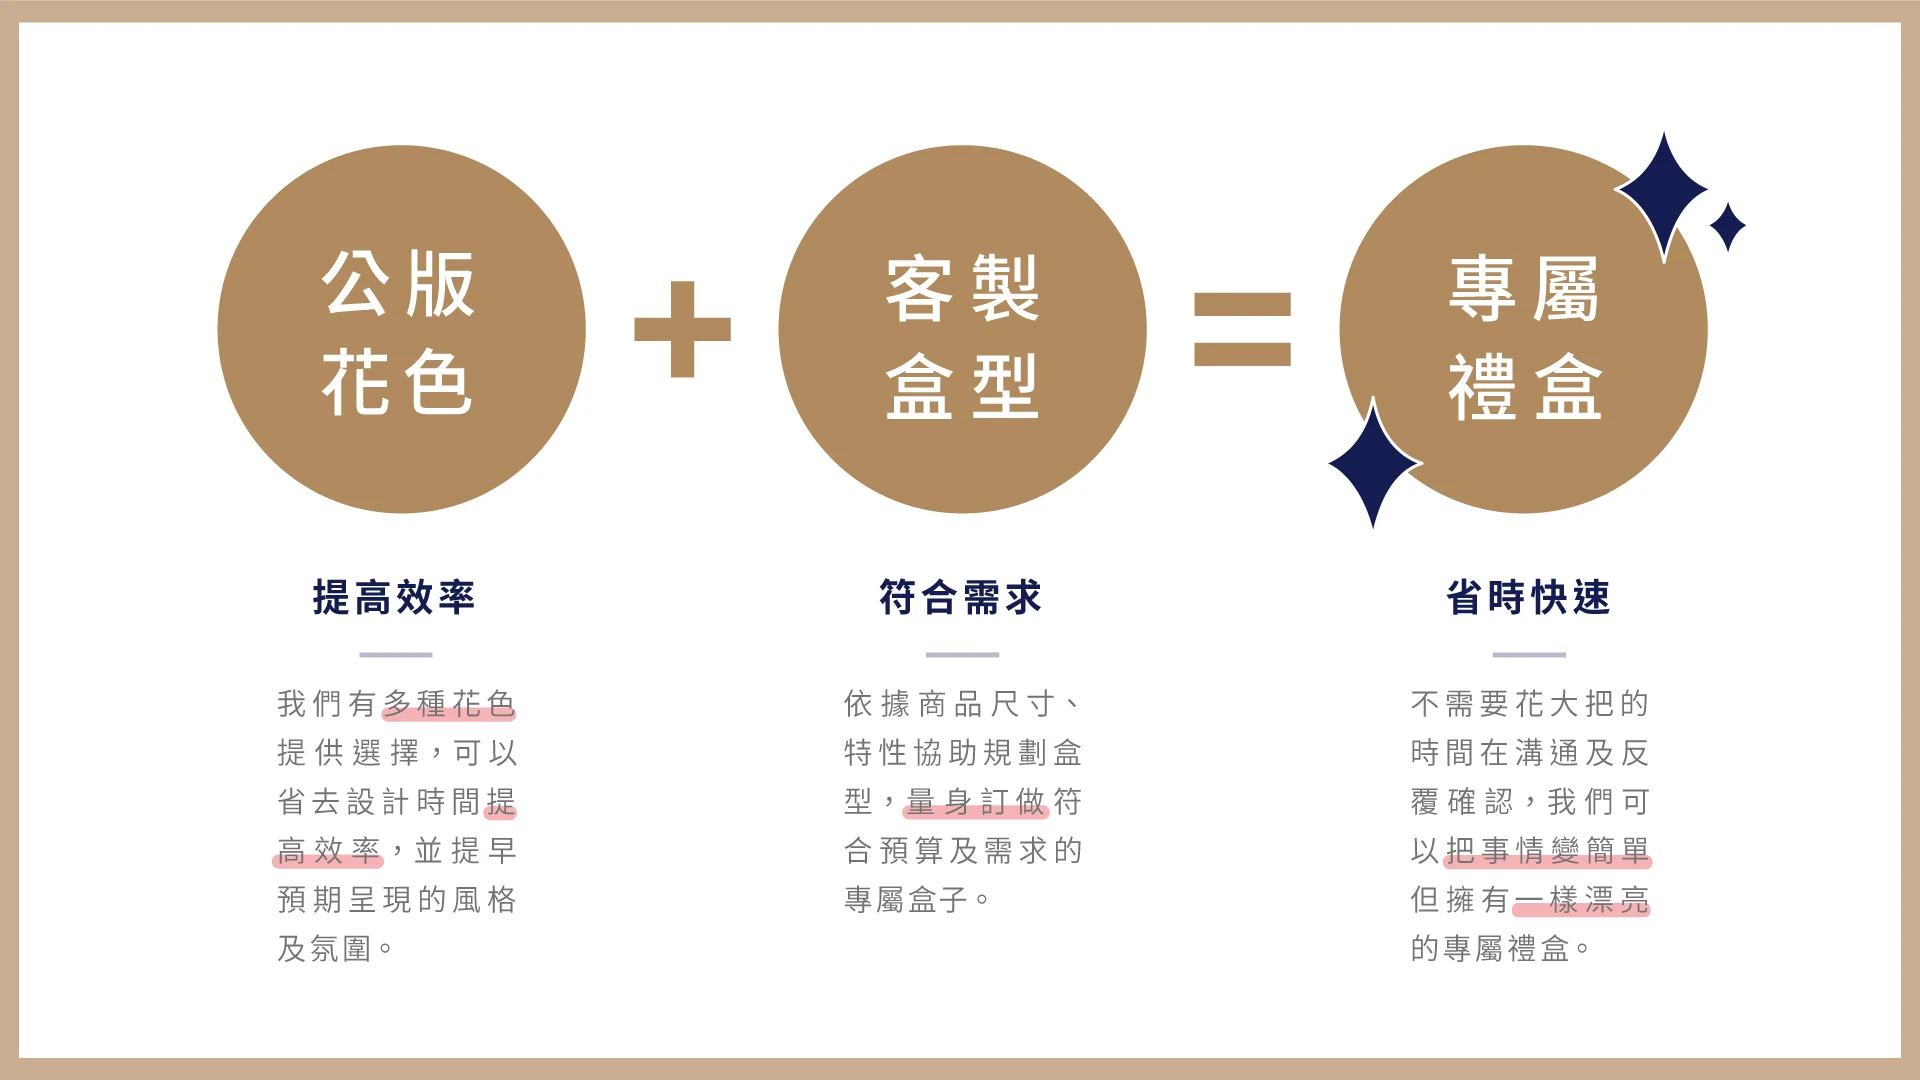
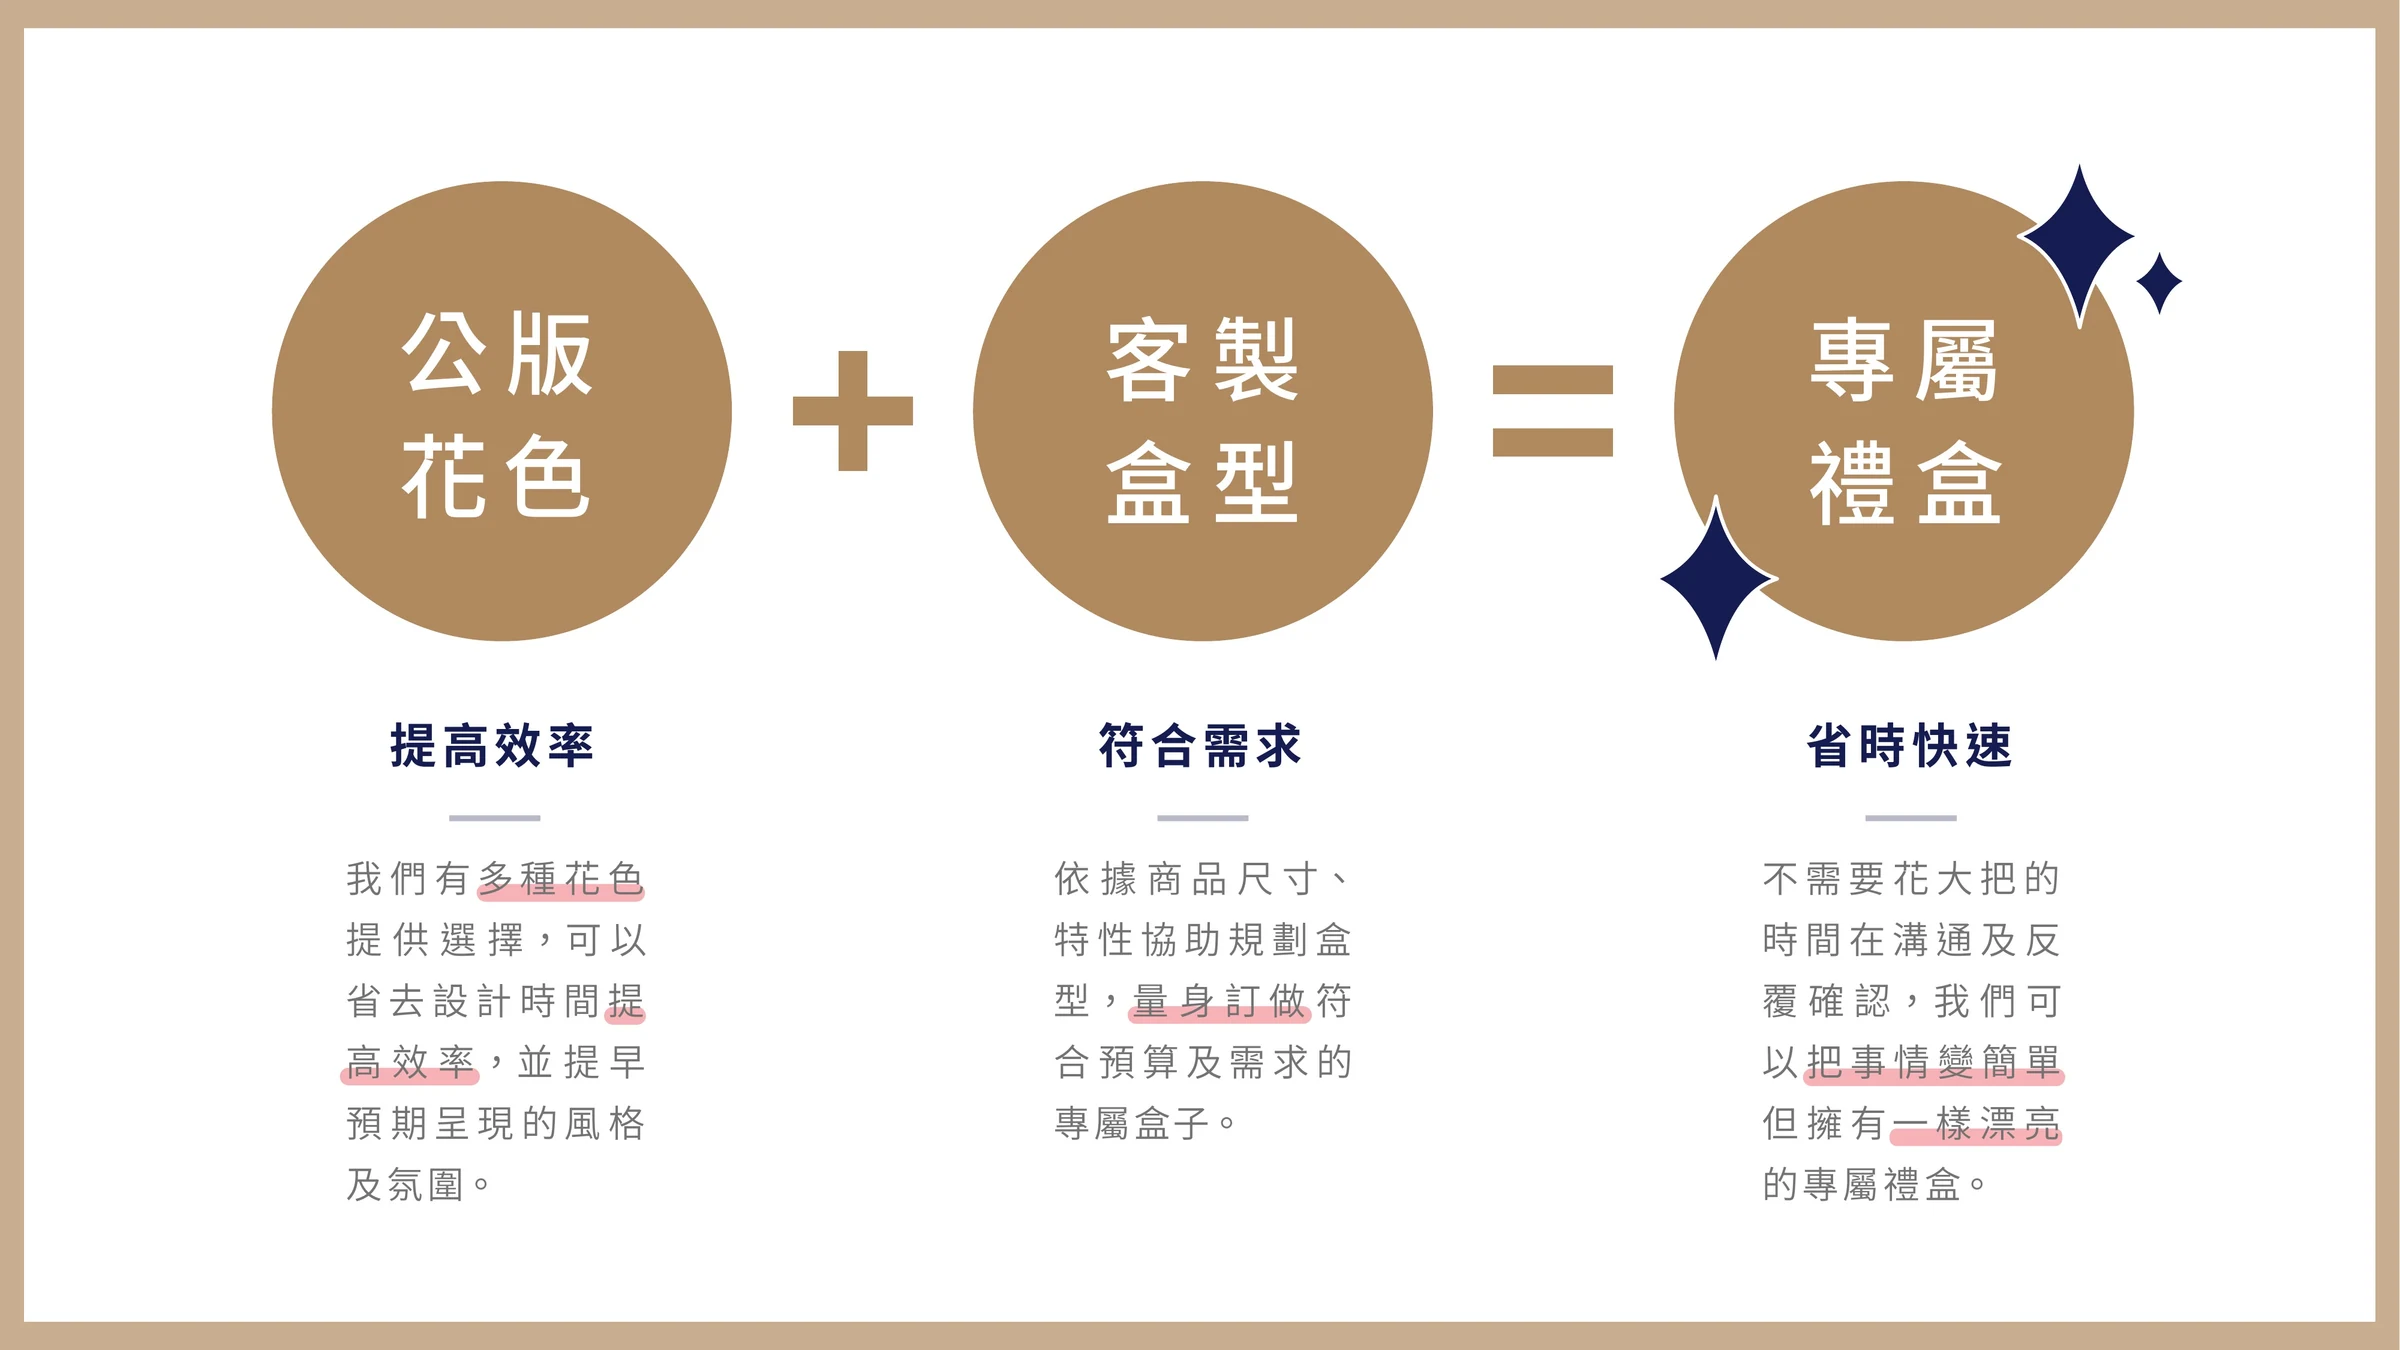
威利與查理改由 AI 檔產生：2400px 頁面圖＋透明可選取文字層＋展開本頁文字（拿掉空白頁與重複封面）
Claude-Session: https://claude.ai/code/session_01FHAxfGfD8vpumr7C1YBcXa

diff --git a/cases/willy.html b/cases/willy.html
@@ -10,6 +10,17 @@
 <link href="https://fonts.googleapis.com/css2?family=Noto+Sans+TC:wght@200;300;400;500;700;900&family=Noto+Serif+TC:wght@400;500;600;700;900&family=EB+Garamond:ital,wght@0,400;0,500;1,400&family=Poppins:wght@300;400;500;600;700;800&display=swap" rel="stylesheet">
 <link rel="stylesheet" href="./case-engine.css">
 <link rel="stylesheet" href="./sd-shell.css">
+<style>
+  /* AI 檔版：圖＋透明文字層（看起來與原稿相同，文字可反白複製） */
+  .aipages{max-width:1200px;margin:0 auto;padding:0 24px 40px}
+  .aip{position:relative;margin:0 0 18px;container-type:inline-size;border-radius:6px;overflow:hidden;background:#f3f1ee}
+  .aip img{position:absolute;inset:0;width:100%;height:100%;object-fit:cover;display:block}
+  .aip .tx{position:absolute;inset:0}
+  .aip .tx span{position:absolute;color:transparent;white-space:nowrap;line-height:1;font-family:'Noto Sans TC',sans-serif;cursor:text}
+  .aip .tx span::selection{background:rgba(146,72,152,.28);color:transparent}
+  .aipages .rl-flow{margin:-6px 0 22px}
+  @media(max-width:560px){.aipages{padding:0 12px 30px}}
+</style>
 </head>
 <body>
 <header class="nav">
@@ -32,11 +43,11 @@
   <p class="rl-en">Willie &amp; Charlie — Packaging Design</p>
   <div class="rl-meta2"><div><small>Client</small><b>威利與查理</b></div><div><small>Scope</small><b>包裝設計</b></div><div><small>Agency</small><b>薪鼎包裝 Senior Deed</b></div></div>
 </header>
-<figure class="rl-hero"><img class="rl-pg" src="./old/willy/01.webp?v=261126c" alt="威利與查理 01" loading="eager"></figure>
-<section class="rl-reel">
-  <img class="rl-pg" src="./old/willy/02.webp?v=261126c" alt="威利與查理 02" loading="lazy" decoding="async">
-  <img class="rl-pg" src="./old/willy/03.webp?v=261126c" alt="威利與查理 03" loading="lazy" decoding="async">
-  <img class="rl-pg" src="./old/willy/04.webp?v=261126c" alt="威利與查理 04" loading="lazy" decoding="async">
+<section class="aipages">
+<figure class="aip" style="aspect-ratio:1920 / 1080"><img src="./old/willy/01.webp?v=261126d" alt="威利與查理 01" loading="eager" decoding="async"></figure>
+<figure class="aip" style="aspect-ratio:1920 / 1080"><img src="./old/willy/02.webp?v=261126d" alt="威利與查理 02" loading="lazy" decoding="async"><div class="tx"><span style="left:16.615%;top:16.353%;font-size:9.8998cqw">公版</span><span style="left:16.615%;top:25.521%;font-size:9.8998cqw">花色</span><span style="left:45.989%;top:16.819%;font-size:9.8998cqw">客製</span><span style="left:45.989%;top:25.987%;font-size:9.8998cqw">盒型</span><span style="left:75.310%;top:16.819%;font-size:9.8998cqw">專屬</span><span style="left:75.310%;top:25.987%;font-size:9.8998cqw">禮盒</span><span style="left:16.246%;top:50.126%;font-size:5.1517cqw">提高效率</span><span style="left:45.760%;top:50.126%;font-size:5.1517cqw">符合需求</span><span style="left:75.274%;top:50.126%;font-size:5.1517cqw">省時快速</span><span style="left:14.410%;top:61.095%;font-size:4.0162cqw">我</span><span style="left:16.268%;top:61.095%;font-size:4.0162cqw">們有多種</span><span style="left:23.523%;top:61.095%;font-size:4.0162cqw">花色</span><span style="left:43.924%;top:61.095%;font-size:4.0162cqw">依</span><span style="left:45.864%;top:61.095%;font-size:4.0162cqw">據</span><span style="left:47.788%;top:61.095%;font-size:4.0162cqw">商</span><span style="left:49.648%;top:61.095%;font-size:4.0162cqw">品</span><span style="left:51.574%;top:61.095%;font-size:4.0162cqw">尺</span><span style="left:53.434%;top:61.095%;font-size:4.0162cqw">寸、</span><span style="left:73.437%;top:61.095%;font-size:4.0162cqw">不需要花大把的</span><span style="left:14.410%;top:70.167%;font-size:4.0162cqw">省去設計時間提</span><span style="left:43.924%;top:70.167%;font-size:4.0162cqw">型，量</span><span style="left:49.131%;top:70.167%;font-size:4.0162cqw">身</span><span style="left:51.031%;top:70.167%;font-size:4.0162cqw">訂</span><span style="left:52.882%;top:70.167%;font-size:4.0162cqw">做</span><span style="left:54.841%;top:70.167%;font-size:4.0162cqw">符</span><span style="left:73.437%;top:70.167%;font-size:4.0162cqw">覆</span><span style="left:75.362%;top:70.167%;font-size:4.0162cqw">確</span><span style="left:77.298%;top:70.167%;font-size:4.0162cqw">認，我</span><span style="left:82.512%;top:70.167%;font-size:4.0162cqw">們</span><span style="left:84.425%;top:70.167%;font-size:4.0162cqw">可</span><span style="left:14.410%;top:65.631%;font-size:4.0162cqw">提</span><span style="left:16.370%;top:65.631%;font-size:4.0162cqw">供</span><span style="left:18.340%;top:65.631%;font-size:4.0162cqw">選</span><span style="left:20.304%;top:65.631%;font-size:4.0162cqw">擇，可</span><span style="left:25.431%;top:65.631%;font-size:4.0162cqw">以</span><span style="left:14.410%;top:74.703%;font-size:4.0162cqw">高</span><span style="left:16.343%;top:74.703%;font-size:4.0162cqw">效</span><span style="left:18.266%;top:74.703%;font-size:4.0162cqw">率，並</span><span style="left:23.482%;top:74.703%;font-size:4.0162cqw">提</span><span style="left:25.386%;top:74.703%;font-size:4.0162cqw">早</span><span style="left:14.410%;top:79.240%;font-size:4.0162cqw">預</span><span style="left:16.282%;top:79.240%;font-size:4.0162cqw">期呈現的風格</span><span style="left:14.410%;top:83.776%;font-size:4.0163cqw">及</span><span style="left:16.103%;top:83.776%;font-size:4.0163cqw">氛</span><span style="left:17.801%;top:83.776%;font-size:4.0163cqw">圍。</span><span style="left:43.924%;top:65.631%;font-size:4.0162cqw">特性協助規劃盒</span><span style="left:43.924%;top:74.703%;font-size:4.0162cqw">合預算及需求的</span><span style="left:43.924%;top:79.240%;font-size:4.0162cqw">專屬盒子。</span><span style="left:73.437%;top:65.631%;font-size:4.0162cqw">時間在溝通及反</span><span style="left:73.437%;top:74.703%;font-size:4.0162cqw">以把事情變簡單</span><span style="left:73.437%;top:79.240%;font-size:4.0162cqw">但</span><span style="left:75.291%;top:79.240%;font-size:4.0162cqw">擁</span><span style="left:77.122%;top:79.240%;font-size:4.0162cqw">有一樣</span><span style="left:82.516%;top:79.240%;font-size:4.0162cqw">漂</span><span style="left:84.370%;top:79.240%;font-size:4.0162cqw">亮</span><span style="left:73.437%;top:83.776%;font-size:4.0163cqw">的專屬</span><span style="left:78.495%;top:83.776%;font-size:4.0163cqw">禮</span><span style="left:80.211%;top:83.776%;font-size:4.0163cqw">盒。</span></div></figure><details class="rl-flow"><summary>展開本頁文字</summary><div class="rl-fb"><p>公版花色</p><p>提高效率</p><p>我們有多種花色提供選擇，可以省去設計時間提高效率，並提早預期呈現的風格及氛圍。</p><p>客製盒型</p><p>符合需求</p><p>依據商品尺寸、特性協助規劃盒型，量身訂做符合預算及需求的專屬盒子。</p><p>專屬禮盒</p><p>省時快速</p><p>不需要花大把的時間在溝通及反覆確認，我們可以把事情變簡單但擁有一樣漂亮的專屬禮盒。</p></div></details>
+<figure class="aip" style="aspect-ratio:1920 / 1080"><img src="./old/willy/03.webp?v=261126d" alt="威利與查理 03" loading="lazy" decoding="async"><div class="tx"><span style="left:3.517%;top:15.198%;font-size:4.7589cqw">內盒展示</span><span style="left:2.966%;top:5.677%;font-size:1.9194cqw">BRAND</span><span style="left:2.966%;top:9.303%;font-size:1.9194cqw">PLANNING</span><span style="left:2.966%;top:12.928%;font-size:1.9194cqw">/</span><span style="left:4.293%;top:74.931%;font-size:3.0791cqw">因</span><span style="left:5.600%;top:74.931%;font-size:3.0791cqw">為</span><span style="left:6.910%;top:74.931%;font-size:3.0791cqw">盛</span><span style="left:8.241%;top:74.931%;font-size:3.0791cqw">放</span><span style="left:9.553%;top:74.931%;font-size:3.0791cqw">商品</span><span style="left:12.113%;top:74.931%;font-size:3.0791cqw">的</span><span style="left:13.409%;top:74.931%;font-size:3.0791cqw">易</span><span style="left:14.706%;top:74.931%;font-size:3.0791cqw">碎</span><span style="left:16.025%;top:74.931%;font-size:3.0791cqw">性</span><span style="left:17.336%;top:74.931%;font-size:3.0791cqw">質，</span><span style="left:4.293%;top:78.357%;font-size:3.0791cqw">我</span><span style="left:5.609%;top:78.357%;font-size:3.0791cqw">們</span><span style="left:6.919%;top:78.357%;font-size:3.0791cqw">在</span><span style="left:8.228%;top:78.357%;font-size:3.0791cqw">禮</span><span style="left:9.546%;top:78.357%;font-size:3.0791cqw">盒</span><span style="left:10.862%;top:78.357%;font-size:3.0791cqw">設計</span><span style="left:13.453%;top:78.357%;font-size:3.0791cqw">時</span><span style="left:14.768%;top:78.357%;font-size:3.0791cqw">著重</span><span style="left:17.389%;top:78.357%;font-size:3.0791cqw">於專屬</span><span style="left:21.243%;top:78.357%;font-size:3.0791cqw">隔</span><span style="left:22.563%;top:78.357%;font-size:3.0791cqw">層，</span><span style="left:4.293%;top:81.784%;font-size:3.0791cqw">除了保</span><span style="left:8.017%;top:81.784%;font-size:3.0791cqw">護</span><span style="left:9.340%;top:81.784%;font-size:3.0791cqw">每</span><span style="left:10.656%;top:81.784%;font-size:3.0791cqw">個</span><span style="left:11.952%;top:81.784%;font-size:3.0791cqw">商品</span><span style="left:14.513%;top:81.784%;font-size:3.0791cqw">的完</span><span style="left:17.126%;top:81.784%;font-size:3.0791cqw">整</span><span style="left:18.451%;top:81.784%;font-size:3.0791cqw">性，</span><span style="left:4.293%;top:85.211%;font-size:3.0791cqw">同</span><span style="left:5.604%;top:85.211%;font-size:3.0791cqw">時</span><span style="left:6.931%;top:85.211%;font-size:3.0791cqw">讓</span><span style="left:8.242%;top:85.211%;font-size:3.0791cqw">各種</span><span style="left:10.861%;top:85.211%;font-size:3.0791cqw">組合</span><span style="left:13.480%;top:85.211%;font-size:3.0791cqw">都</span><span style="left:14.790%;top:85.211%;font-size:3.0791cqw">井</span><span style="left:16.093%;top:85.211%;font-size:3.0791cqw">然</span><span style="left:17.396%;top:85.211%;font-size:3.0791cqw">有序，</span><span style="left:4.293%;top:88.637%;font-size:3.0791cqw">讓</span><span style="left:5.610%;top:88.637%;font-size:3.0791cqw">消費</span><span style="left:8.195%;top:88.637%;font-size:3.0791cqw">者能</span><span style="left:10.794%;top:88.637%;font-size:3.0791cqw">擁</span><span style="left:12.104%;top:88.637%;font-size:3.0791cqw">有</span><span style="left:13.413%;top:88.637%;font-size:3.0791cqw">視</span><span style="left:14.741%;top:88.637%;font-size:3.0791cqw">覺</span><span style="left:16.066%;top:88.637%;font-size:3.0791cqw">及味</span><span style="left:18.650%;top:88.637%;font-size:3.0791cqw">覺</span><span style="left:19.948%;top:88.637%;font-size:3.0791cqw">的</span><span style="left:21.260%;top:88.637%;font-size:3.0791cqw">雙</span><span style="left:22.575%;top:88.637%;font-size:3.0791cqw">重</span><span style="left:23.896%;top:88.637%;font-size:3.0791cqw">體</span><span style="left:25.228%;top:88.637%;font-size:3.0791cqw">驗。</span></div></figure><details class="rl-flow"><summary>展開本頁文字</summary><div class="rl-fb"><p>BRAND PLANNING /</p><p>內盒展示</p><p>因為盛放商品的易碎性質，我們在禮盒設計時著重於專屬隔層，除了保護每個商品的完整性，同時讓各種組合都井然有序，讓消費者能擁有視覺及味覺的雙重體驗。</p></div></details>
+<figure class="aip" style="aspect-ratio:1920 / 1080"><img src="./old/willy/04.webp?v=261126d" alt="威利與查理 04" loading="lazy" decoding="async"></figure>
 </section>
 <div class="rl-end"><a href="./"><i>←</i>回到全部作品</a></div>
 </article></main>
@@ -55,14 +66,5 @@
     <div>作品著作權屬各品牌與薪鼎所有，未經同意請勿轉用。</div>
   </div>
 </footer>
-<script>
-(function(){
-  var r=matchMedia('(prefers-reduced-motion: reduce)').matches;
-  var els=document.querySelectorAll('.rl-reel > .rl-pg');
-  if(r){els.forEach(function(e){e.classList.add('in')});return;}
-  var io=new IntersectionObserver(function(es){es.forEach(function(e){if(e.isIntersecting){e.target.classList.add('in');io.unobserve(e.target)}})},{threshold:.12});
-  els.forEach(function(e){io.observe(e)});
-})();
-</script>
 </body>
 </html>
